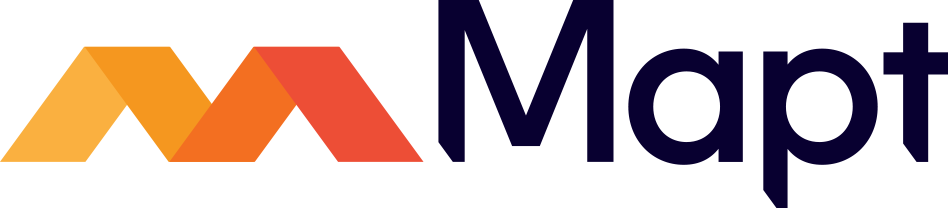
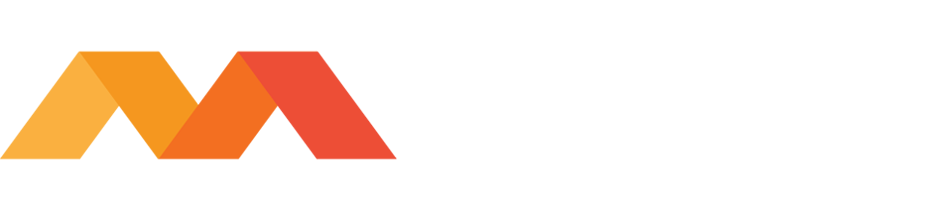
Updated the Navbar to reflect the new visual pallete

Changed region(s): [[0.0605, 0.0, 1.0, 1.0], [0.0, 0.7685, 0.0907, 0.798]]

diff --git a/css/bootstrap.min.css b/css/bootstrap.min.css
@@ -1356,7 +1356,7 @@ a.text-success:focus {
   color: #3d8b40;
 }
 .text-info {
-  color: #2B5B84;
+  color: #060028;
 }
 a.text-info:hover,
 a.text-info:focus {
@@ -3236,7 +3236,7 @@ fieldset[disabled] .btn-success.focus {
 }
 .btn-info {
   color: #ffffff;
-  background-color: #2B5B84;
+  background-color: #060028;
   border-color: transparent;
 }
 .btn-info:focus,
@@ -3284,11 +3284,11 @@ fieldset[disabled] .btn-info:focus,
 .btn-info.disabled.focus,
 .btn-info[disabled].focus,
 fieldset[disabled] .btn-info.focus {
-  background-color: #2B5B84;
+  background-color: #060028;
   border-color: transparent;
 }
 .btn-info .badge {
-  color: #2B5B84;
+  color: #060028;
   background-color: #ffffff;
 }
 .btn-warning {
@@ -4596,11 +4596,12 @@ fieldset[disabled] .navbar-default .btn-link:focus {
   color: #cccccc;
 }
 .navbar-inverse {
-  background-color: #08033E;
-  border-color: transparent;
+  background-color: #060028;
+/*  background-image: url('images/nav-bg.jpg');
+*/  border-color: transparent;
 }
 .navbar-inverse .navbar-brand {
-  color: #b2dbfb;
+  color: #fff;
 }
 .navbar-inverse .navbar-brand:hover,
 .navbar-inverse .navbar-brand:focus {
@@ -4611,7 +4612,7 @@ fieldset[disabled] .navbar-default .btn-link:focus {
   color: #bbbbbb;
 }
 .navbar-inverse .navbar-nav > li > a {
-  color: #b2dbfb;
+  color: #fff;
 }
 .navbar-inverse .navbar-nav > li > a:hover,
 .navbar-inverse .navbar-nav > li > a:focus {
@@ -4658,7 +4659,7 @@ fieldset[disabled] .navbar-default .btn-link:focus {
     background-color: transparent;
   }
   .navbar-inverse .navbar-nav .open .dropdown-menu > li > a {
-    color: #b2dbfb;
+    color: #fff;
   }
   .navbar-inverse .navbar-nav .open .dropdown-menu > li > a:hover,
   .navbar-inverse .navbar-nav .open .dropdown-menu > li > a:focus {
@@ -4679,13 +4680,13 @@ fieldset[disabled] .navbar-default .btn-link:focus {
   }
 }
 .navbar-inverse .navbar-link {
-  color: #b2dbfb;
+  color: #fff;
 }
 .navbar-inverse .navbar-link:hover {
   color: #ffffff;
 }
 .navbar-inverse .btn-link {
-  color: #b2dbfb;
+  color: #fff;
 }
 .navbar-inverse .btn-link:hover,
 .navbar-inverse .btn-link:focus {
@@ -4896,7 +4897,7 @@ a.label:focus {
   background-color: #3d8b40;
 }
 .label-info {
-  background-color: #2B5B84;
+  background-color: #060028;
 }
 .label-info[href]:hover,
 .label-info[href]:focus {
@@ -5076,7 +5077,7 @@ a.thumbnail.active {
 .alert-info {
   background-color: #e1bee7;
   border-color: #cba4dd;
-  color: #2B5B84;
+  color: #060028;
 }
 .alert-info hr {
   border-top-color: #c191d6;
@@ -5177,7 +5178,7 @@ a.thumbnail.active {
   background-image: linear-gradient(45deg, rgba(255, 255, 255, 0.15) 25%, transparent 25%, transparent 50%, rgba(255, 255, 255, 0.15) 50%, rgba(255, 255, 255, 0.15) 75%, transparent 75%, transparent);
 }
 .progress-bar-info {
-  background-color: #2B5B84;
+  background-color: #060028;
 }
 .progress-striped .progress-bar-info {
   background-image: -webkit-linear-gradient(45deg, rgba(255, 255, 255, 0.15) 25%, transparent 25%, transparent 50%, rgba(255, 255, 255, 0.15) 50%, rgba(255, 255, 255, 0.15) 75%, transparent 75%, transparent);
@@ -5360,12 +5361,12 @@ button.list-group-item-success.active:focus {
   border-color: #4caf50;
 }
 .list-group-item-info {
-  color: #2B5B84;
+  color: #060028;
   background-color: #e1bee7;
 }
 a.list-group-item-info,
 button.list-group-item-info {
-  color: #2B5B84;
+  color: #060028;
 }
 a.list-group-item-info .list-group-item-heading,
 button.list-group-item-info .list-group-item-heading {
@@ -5375,7 +5376,7 @@ a.list-group-item-info:hover,
 button.list-group-item-info:hover,
 a.list-group-item-info:focus,
 button.list-group-item-info:focus {
-  color: #2B5B84;
+  color: #060028;
   background-color: #d8abe0;
 }
 a.list-group-item-info.active,
@@ -5385,8 +5386,8 @@ button.list-group-item-info.active:hover,
 a.list-group-item-info.active:focus,
 button.list-group-item-info.active:focus {
   color: #fff;
-  background-color: #2B5B84;
-  border-color: #2B5B84;
+  background-color: #060028;
+  border-color: #060028;
 }
 .list-group-item-warning {
   color: #ff9800;
@@ -5748,14 +5749,14 @@ button.list-group-item-danger.active:focus {
 }
 .panel-info > .panel-heading {
   color: #ffffff;
-  background-color: #2B5B84;
+  background-color: #060028;
   border-color: #cba4dd;
 }
 .panel-info > .panel-heading + .panel-collapse > .panel-body {
   border-top-color: #cba4dd;
 }
 .panel-info > .panel-heading .badge {
-  color: #2B5B84;
+  color: #060028;
   background-color: #ffffff;
 }
 .panel-info > .panel-footer + .panel-collapse > .panel-body {
@@ -6768,26 +6769,26 @@ button.close {
 .navbar-inverse .navbar-form input[type=text],
 .navbar-inverse .navbar-form input[type=password] {
   color: #fff;
-  -webkit-box-shadow: inset 0 -1px 0 #b2dbfb;
-  box-shadow: inset 0 -1px 0 #b2dbfb;
+  -webkit-box-shadow: inset 0 -1px 0 #fff;
+  box-shadow: inset 0 -1px 0 #fff;
 }
 .navbar-inverse .navbar-form input[type=text]::-moz-placeholder,
 .navbar-inverse .navbar-form input[type=password]::-moz-placeholder {
-  color: #b2dbfb;
+  color: #fff;
   opacity: 1;
 }
 .navbar-inverse .navbar-form input[type=text]:-ms-input-placeholder,
 .navbar-inverse .navbar-form input[type=password]:-ms-input-placeholder {
-  color: #b2dbfb;
+  color: #fff;
 }
 .navbar-inverse .navbar-form input[type=text]::-webkit-input-placeholder,
 .navbar-inverse .navbar-form input[type=password]::-webkit-input-placeholder {
-  color: #b2dbfb;
+  color: #fff;
 }
 .navbar-inverse .navbar-form input[type=text]:focus,
 .navbar-inverse .navbar-form input[type=password]:focus {
-  -webkit-box-shadow: inset 0 -2px 0 #ffffff;
-  box-shadow: inset 0 -2px 0 #ffffff;
+  -webkit-box-shadow: inset 0 -2px 0 #F2B146;
+  box-shadow: inset 0 -2px 0 #F2B146;
 }
 .btn-default {
   -webkit-background-size: 200% 200%;
@@ -6864,7 +6865,7 @@ button.close {
   background-position: 50%;
 }
 .btn-info:focus {
-  background-color: #2B5B84;
+  background-color: #060028;
 }
 .btn-info:hover,
 .btn-info:active:hover {
@@ -6872,9 +6873,9 @@ button.close {
 }
 .btn-info:active {
   background-color: #701c7e;
-  background-image: -webkit-radial-gradient(circle, #701c7e 10%, #2B5B84 11%);
-  background-image: -o-radial-gradient(circle, #701c7e 10%, #2B5B84 11%);
-  background-image: radial-gradient(circle, #701c7e 10%, #2B5B84 11%);
+  background-image: -webkit-radial-gradient(circle, #701c7e 10%, #060028 11%);
+  background-image: -o-radial-gradient(circle, #701c7e 10%, #060028 11%);
+  background-image: radial-gradient(circle, #701c7e 10%, #060028 11%);
   background-repeat: no-repeat;
   -webkit-background-size: 1000% 1000%;
           background-size: 1000%;
@@ -7416,7 +7417,7 @@ input[type="checkbox"]:disabled:checked:after,
   background-color: #4caf50;
 }
 .alert-info {
-  background-color: #2B5B84;
+  background-color: #060028;
 }
 .alert-warning {
   background-color: #ff9800;

diff --git a/card-sort.html b/card-sort.html
@@ -49,7 +49,7 @@
     <div id="wrapper">
 
         <!-- Top Nav Bar -->
-        <nav class="navbar navbar-default navbar-fixed-top">
+        <nav class="navbar navbar-inverse navbar-fixed-top">
             <div class="container-fluid">
                 <div class="navbar-header">
                   <button type="button" class="navbar-toggle collapsed" data-toggle="collapse" data-target="#navbar" aria-expanded="false" aria-controls="navbar">

diff --git a/card-sort1.html b/card-sort1.html
@@ -49,7 +49,7 @@
     <div id="wrapper">
 
         <!-- Top Nav Bar -->
-        <nav class="navbar navbar-default navbar-fixed-top">
+        <nav class="navbar navbar-inverse navbar-fixed-top">
             <div class="container-fluid">
                 <div class="navbar-header">
                   <button type="button" class="navbar-toggle collapsed" data-toggle="collapse" data-target="#navbar" aria-expanded="false" aria-controls="navbar">

diff --git a/card-sort2.html b/card-sort2.html
@@ -49,7 +49,7 @@
     <div id="wrapper">
 
         <!-- Top Nav Bar -->
-        <nav class="navbar navbar-default navbar-fixed-top">
+        <nav class="navbar navbar-inverse navbar-fixed-top">
             <div class="container-fluid">
                 <div class="navbar-header">
                   <button type="button" class="navbar-toggle collapsed" data-toggle="collapse" data-target="#navbar" aria-expanded="false" aria-controls="navbar">

diff --git a/card-sort3.html b/card-sort3.html
@@ -49,7 +49,7 @@
     <div id="wrapper">
 
         <!-- Top Nav Bar -->
-        <nav class="navbar navbar-default navbar-fixed-top">
+        <nav class="navbar navbar-inverse navbar-fixed-top">
             <div class="container-fluid">
                 <div class="navbar-header">
                   <button type="button" class="navbar-toggle collapsed" data-toggle="collapse" data-target="#navbar" aria-expanded="false" aria-controls="navbar">

diff --git a/card-sort4.html b/card-sort4.html
@@ -49,7 +49,7 @@
     <div id="wrapper">
 
         <!-- Top Nav Bar -->
-        <nav class="navbar navbar-default navbar-fixed-top">
+        <nav class="navbar navbar-inverse navbar-fixed-top">
             <div class="container-fluid">
                 <div class="navbar-header">
                   <button type="button" class="navbar-toggle collapsed" data-toggle="collapse" data-target="#navbar" aria-expanded="false" aria-controls="navbar">

diff --git a/card-sort5.html b/card-sort5.html
@@ -49,7 +49,7 @@
     <div id="wrapper">
 
         <!-- Top Nav Bar -->
-        <nav class="navbar navbar-default navbar-fixed-top">
+        <nav class="navbar navbar-inverse navbar-fixed-top">
             <div class="container-fluid">
                 <div class="navbar-header">
                   <button type="button" class="navbar-toggle collapsed" data-toggle="collapse" data-target="#navbar" aria-expanded="false" aria-controls="navbar">

diff --git a/dashboard-bookmark.html b/dashboard-bookmark.html
@@ -49,7 +49,7 @@
     <div id="wrapper">
 
         <!-- Top Nav Bar -->
-        <nav class="navbar navbar-default navbar-fixed-top">
+        <nav class="navbar navbar-inverse navbar-fixed-top">
             <div class="container-fluid">
                 <div class="navbar-header">
                   <button type="button" class="navbar-toggle collapsed" data-toggle="collapse" data-target="#navbar" aria-expanded="false" aria-controls="navbar">

diff --git a/dashboard-collection.html b/dashboard-collection.html
@@ -49,7 +49,7 @@
     <div id="wrapper">
 
         <!-- Top Nav Bar -->
-        <nav class="navbar navbar-default navbar-fixed-top">
+        <nav class="navbar navbar-inverse navbar-fixed-top">
             <div class="container-fluid">
                 <div class="navbar-header">
                   <button type="button" class="navbar-toggle collapsed" data-toggle="collapse" data-target="#navbar" aria-expanded="false" aria-controls="navbar">

diff --git a/dashboard-owned.html b/dashboard-owned.html
@@ -49,7 +49,7 @@
     <div id="wrapper">
 
         <!-- Top Nav Bar -->
-        <nav class="navbar navbar-default navbar-fixed-top">
+        <nav class="navbar navbar-inverse navbar-fixed-top">
             <div class="container-fluid">
                 <div class="navbar-header">
                   <button type="button" class="navbar-toggle collapsed" data-toggle="collapse" data-target="#navbar" aria-expanded="false" aria-controls="navbar">

diff --git a/dashboard-profile.html b/dashboard-profile.html
@@ -83,7 +83,7 @@
     <div id="wrapper">
 
         <!-- Top Nav Bar -->
-        <nav class="navbar navbar-default navbar-fixed-top">
+        <nav class="navbar navbar-inverse navbar-fixed-top">
             <div class="container-fluid">
                 <div class="navbar-header">
                   <button type="button" class="navbar-toggle collapsed" data-toggle="collapse" data-target="#navbar" aria-expanded="false" aria-controls="navbar">

diff --git a/dashboard.html b/dashboard.html
@@ -64,7 +64,7 @@
     <div id="wrapper">
 
         <!-- Top Nav Bar -->
-        <nav class="navbar navbar-default navbar-fixed-top">
+        <nav class="navbar navbar-inverse navbar-fixed-top">
             <div class="container-fluid">
                 <div class="navbar-header">
                   <button type="button" class="navbar-toggle collapsed" data-toggle="collapse" data-target="#navbar" aria-expanded="false" aria-controls="navbar">
